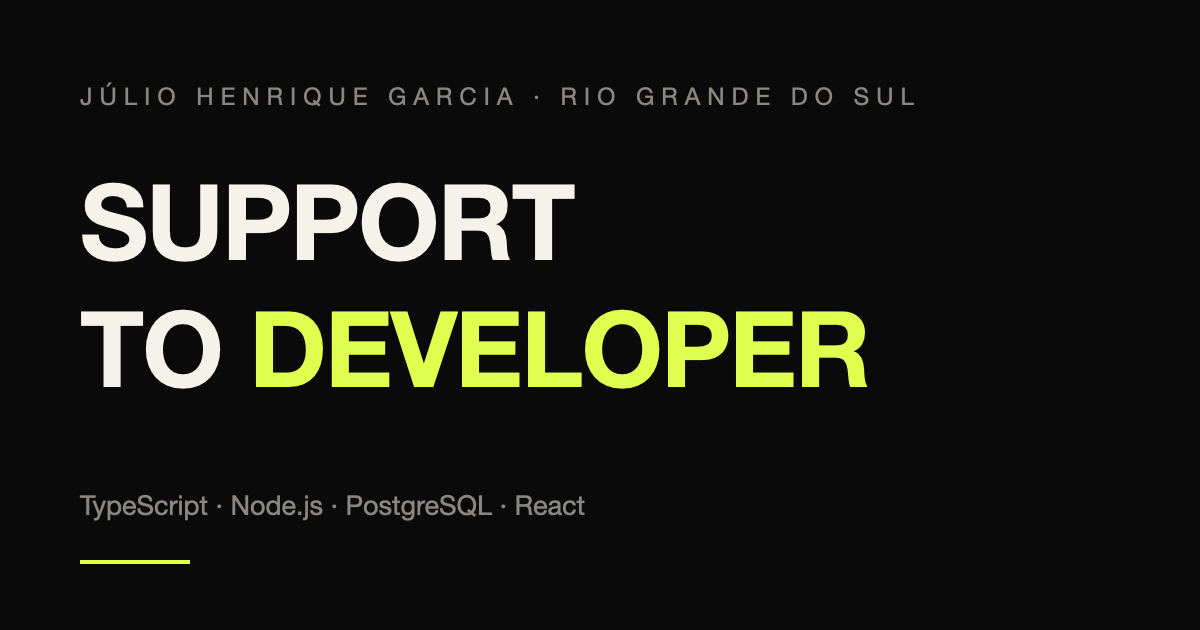
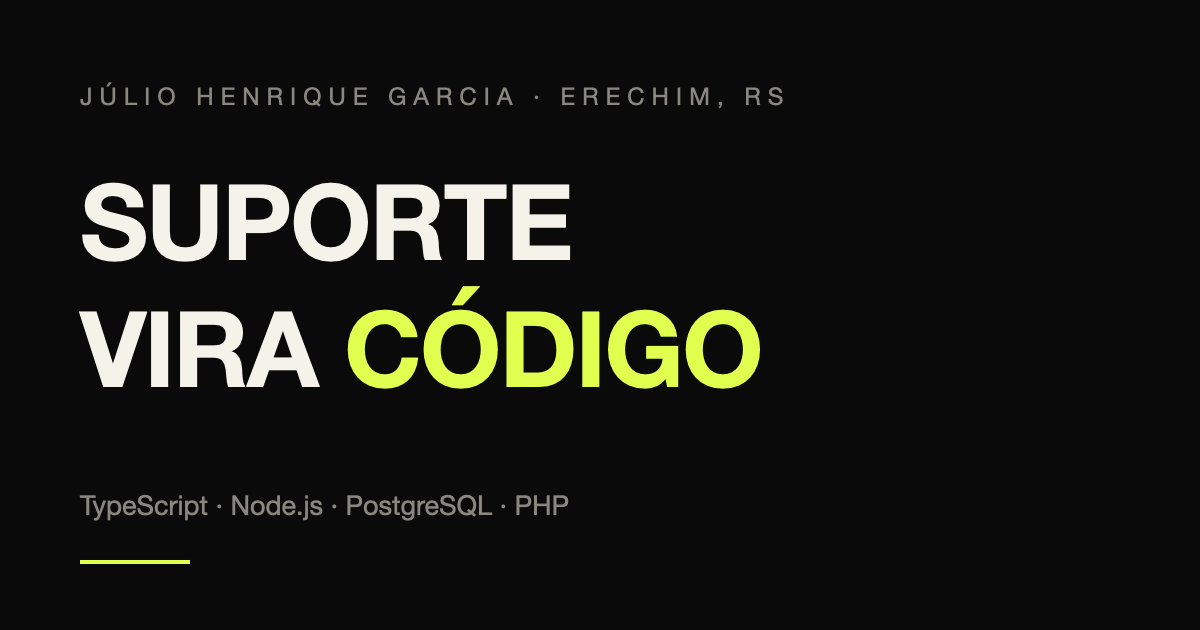
content: restaura dados que o commit "fase 1" ja tinha preenchido
Eu sobrescrevi trabalho do Julio ao reescrever pt.ts. Recuperado do
commit 6aa8a22:

- 11 meses de suporte (eu havia tirado o numero; nao sao anos)
- Erechim - RS, nao apenas "RS"
- PHP & Laravel como foco atual de estudo
- Astrus Digital / Analista de Suporte N1 — eu removi esse emprego
  inteiro da trajetoria achando que nao havia dado para ele
- edicoes de texto dele nos paragrafos do Sobre, incluindo
  "Em paralelo estou do outro lado", que e mais preciso que meu "Hoje":
  ele segue trabalhando no suporte
- nome completo no <title>, como ele preferiu

Mantido desta sessao: posicionamento neutro, links reais, secao de
projetos com um card e skills alinhadas a stack declarada no GitHub.

A ultima frase do Sobre ("para quem constroi interface...") foi
neutralizada, por ser especifica de front-end e conflitar com o
posicionamento que o Julio escolheu agora.

Trajetoria final: Autentique, Astrus Digital, graduacao, estudo
autodirigido. og-image com cidade e stack reais.

Restam 4 placeholders, todos de data: PERIODO_AUTENTIQUE, PERIODO_ASTRUS,
PERIODO_FACULDADE e URL_REPO_PORTFOLIO.

diff --git a/src/content/pt.ts b/src/content/pt.ts
@@ -12,7 +12,7 @@ import type { SiteContent } from "./types";
  */
 export const pt = {
   meta: {
-    title: "Júlio Garcia — Desenvolvedor em formação",
+    title: "Júlio Henrique Garcia — Desenvolvedor em formação",
     description:
       "Analista de suporte de TI na Autentique e estudante de Ciência da Computação, em transição para o desenvolvimento. TypeScript, Node.js e PostgreSQL.",
   },
@@ -32,10 +32,10 @@ export const pt = {
   },
 
   hero: {
-    eyebrow: "Júlio Henrique Garcia · Rio Grande do Sul",
+    eyebrow: "Júlio Henrique Garcia · Erechim, RS",
     titleLines: ["Suporte", "vira", "código"],
     subtitle:
-      "Analista de suporte de TI na Autentique, estudante de Ciência da Computação. Passo os dias resolvendo problemas de quem usa o software — e as noites aprendendo a construí-lo.",
+      "Faz 11 meses que resolvo os problemas de quem usa o software. Em paralelo, estudo Ciência da Computação e aprendo a construí-lo.",
     scrollHint: "role",
   },
 
@@ -44,13 +44,13 @@ export const pt = {
     title: "Quem depura em produção aprende rápido",
     paragraphs: [
       "Trabalho com suporte técnico, no ponto exato em que o software encontra a vida real. Meu trabalho é receber o problema já acontecendo: o log confuso, a pessoa sem paciência do outro lado, o erro que só aparece em uma configuração específica.",
-      "É ali que se aprende o que curso nenhum ensina bem — reproduzir uma falha a partir de uma descrição vaga, ler stack trace sem entrar em pânico, isolar variáveis até sobrar uma causa só. E traduzir: do que a pessoa relata para o que o sistema de fato fez.",
-      "Agora estou aprendendo o outro lado, escrevendo o código. Trouxe comigo o hábito de perguntar “o que acontece quando isso falha?” antes de perguntar “como faço isso funcionar?”. É uma ordem de perguntas que o suporte ensina cedo, e que continua valendo de qualquer lado da stack.",
+      "É ali que se aprende o que curso nenhum ensina bem — reproduzir um erro a partir de uma descrição vaga, isolar os problemas até sobrar uma causa só. E aprendi a traduzir: do que a pessoa relata para o que o sistema de fato fez.",
+      "Em paralelo estou do outro lado, escrevendo o código. Trouxe comigo o hábito de perguntar “o que acontece quando isso falha?” antes de perguntar “como faço isso funcionar?”. É uma ordem de perguntas que o suporte ensina cedo, e que continua valendo de qualquer lado da stack.",
     ],
     highlights: [
-      { value: "Autentique", label: "Analista de Suporte de TI" },
-      { value: "Ciência da Computação", label: "graduação em andamento" },
-      { value: "RS · GMT-3", label: "aberto a vagas remotas" },
+      { value: "11+", label: "meses depurando sistemas em produção" },
+      { value: "PHP & Laravel", label: "foco atual de estudo" },
+      { value: "Erechim · RS", label: "disponível para remoto" },
     ],
   },
 
@@ -65,6 +65,14 @@ export const pt = {
         description:
           "Atendimento de incidentes de ponta a ponta: reprodução do problema, análise de logs, escalonamento para a engenharia e comunicação com quem reportou. Sou a ponte entre o relato de quem usa e a causa técnica.",
         tags: ["Análise de logs", "SQL", "APIs REST", "Documentação"],
+      },
+      {
+        period: "{{PERIODO_ASTRUS}}",
+        role: "Analista de Suporte N1",
+        company: "Astrus Digital",
+        description:
+          "Primeiro contato com suporte em escala: triagem e resolução de chamados de primeiro nível, registro do que não tinha documentação e encaminhamento do que precisava de outro time.",
+        tags: ["Atendimento N1", "Triagem de chamados", "Documentação"],
       },
       {
         period: "{{PERIODO_FACULDADE}}",

diff --git a/src/content/en.ts b/src/content/en.ts
@@ -10,7 +10,7 @@ import type { SiteContent } from "./types";
  */
 export const en = {
   meta: {
-    title: "Júlio Garcia — Developer in the making",
+    title: "Júlio Henrique Garcia — Developer in the making",
     description:
       "IT support analyst at Autentique and Computer Science student, moving into development. TypeScript, Node.js and PostgreSQL.",
   },
@@ -30,10 +30,10 @@ export const en = {
   },
 
   hero: {
-    eyebrow: "Júlio Henrique Garcia · Southern Brazil",
+    eyebrow: "Júlio Henrique Garcia · Erechim, Brazil",
     titleLines: ["Support", "to", "developer"],
     subtitle:
-      "IT support analyst at Autentique, Computer Science student. I spend my days fixing problems for the people who use the software — and my nights learning to build it.",
+      "For 11 months I have been fixing problems for the people who use the software. Alongside it, I study Computer Science and learn to build it.",
     scrollHint: "scroll",
   },
 
@@ -42,13 +42,13 @@ export const en = {
     title: "Debugging in production teaches you fast",
     paragraphs: [
       "I work in technical support, at the exact point where software meets real life. My job is to receive the problem already in progress: the confusing log, the person losing patience on the other end, the error that only shows up in one specific setup.",
-      "That is where you learn what no course teaches well — reproducing a failure from a vague description, reading a stack trace without panicking, isolating variables until a single cause is left. And translating: from what someone reports to what the system actually did.",
-      "Now I am learning the other side, writing the code. I brought the habit of asking “what happens when this fails?” before asking “how do I make this work?”. Support teaches you that order early, and it holds on either side of the stack.",
+      "That is where you learn what no course teaches well — reproducing an error from a vague description, isolating the problems until a single cause is left. And translating: from what someone reports to what the system actually did.",
+      "Alongside that I am on the other side, writing the code. I brought the habit of asking “what happens when this fails?” before asking “how do I make this work?”. Support teaches you that order early, and it holds on either side of the stack.",
     ],
     highlights: [
-      { value: "Autentique", label: "IT Support Analyst" },
-      { value: "Computer Science", label: "degree in progress" },
-      { value: "Brazil · GMT-3", label: "open to remote roles" },
+      { value: "11+", label: "months debugging production systems" },
+      { value: "PHP & Laravel", label: "current focus" },
+      { value: "Erechim · Brazil", label: "open to remote roles" },
     ],
   },
 
@@ -63,6 +63,14 @@ export const en = {
         description:
           "End-to-end incident handling: reproducing the issue, analysing logs, escalating to engineering and communicating with whoever reported it. I am the bridge between the user's account and the technical cause.",
         tags: ["Log analysis", "SQL", "REST APIs", "Documentation"],
+      },
+      {
+        period: "{{PERIODO_ASTRUS}}",
+        role: "Tier 1 Support Analyst",
+        company: "Astrus Digital",
+        description:
+          "First contact with support at scale: triaging and resolving first-level tickets, writing down what had no documentation and routing what needed another team.",
+        tags: ["Tier 1 support", "Ticket triage", "Documentation"],
       },
       {
         period: "{{PERIODO_FACULDADE}}",

diff --git a/index.html b/index.html
@@ -14,7 +14,7 @@
 
     <!-- Open Graph / redes sociais -->
     <meta property="og:type" content="website" />
-    <meta property="og:title" content="Júlio Garcia — Desenvolvedor em formação" />
+    <meta property="og:title" content="Júlio Henrique Garcia — Desenvolvedor em formação" />
     <meta
       property="og:description"
       content="Do suporte técnico ao desenvolvimento. Portfólio, trajetória e o que estou construindo."
